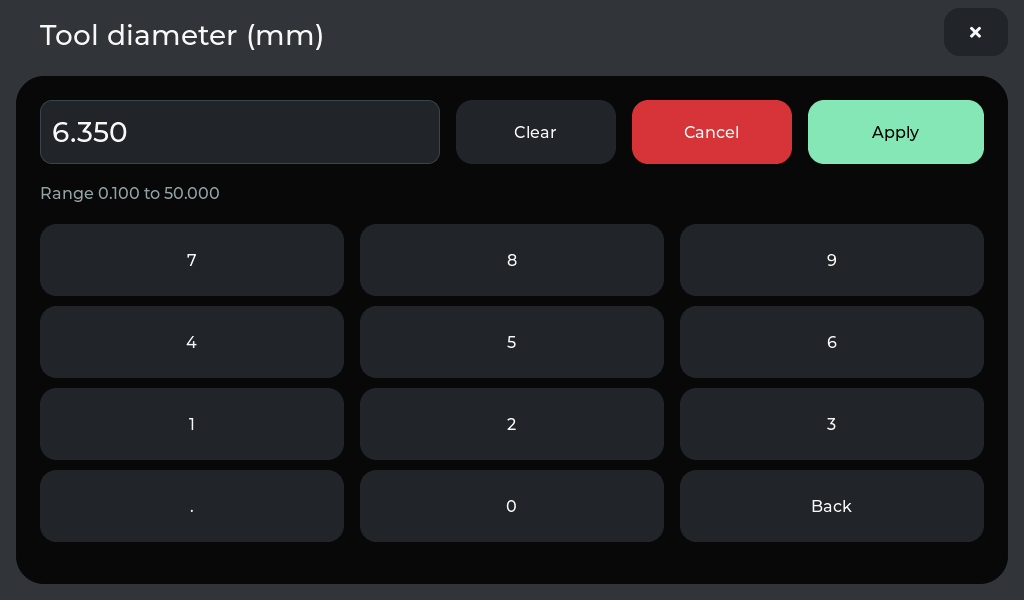
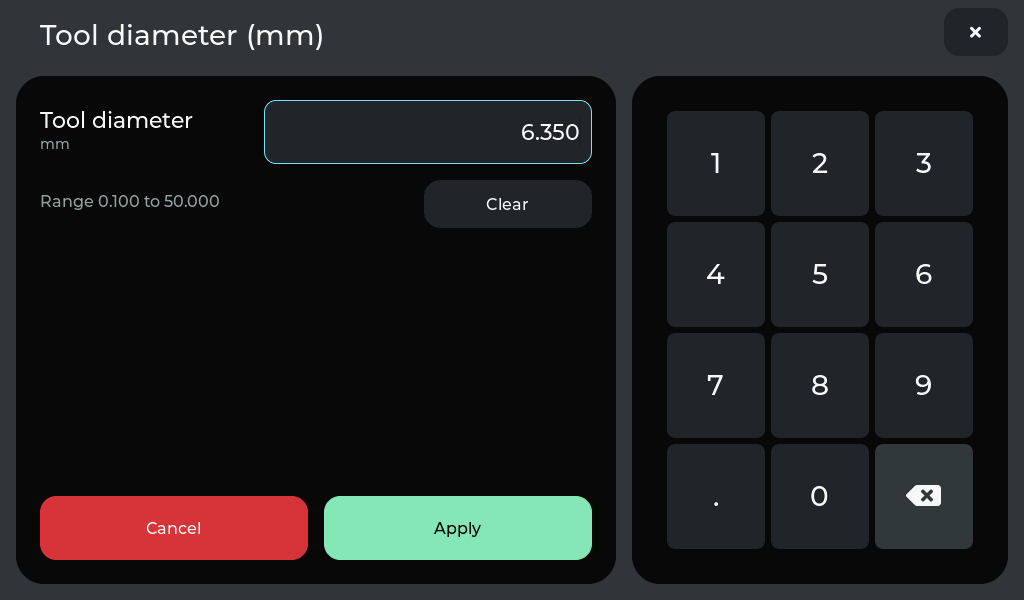
Unify numeric editors and fix controller UART pins

diff --git a/firmware/viewesmart-p4/main/panel_ui.cpp b/firmware/viewesmart-p4/main/panel_ui.cpp
@@ -238,6 +238,7 @@ static void load() {
             actuator_prefs = actuators;
         nvs_close(h);
     }
+    prefs.tx=ControllerTxPin; prefs.rx=ControllerRxPin;
 }
 static const lv_font_t *font(int size) {
     switch (size) {
@@ -579,36 +580,45 @@ static void edit(Edit e) {
     e.converted = !e.integer;
     editing = e;
     lv_obj_t *c = open_modal(e.title);
+    lv_obj_set_width(lv_obj_get_child(c,0),600);
+    auto keypad_card=box(c,632,76,376,508);
+    lv_obj_set_style_radius(keypad_card,28,0);
+    lv_obj_set_style_border_width(keypad_card,0,0);
     modal_close_button(c);
+    label(c,e.integer?"Baud rate":"Tool diameter",40,108,200,22,TEXT);
+    label(c,e.integer?"baud":(inches?"in":"mm"),40,136,200,14,MUTED);
     number = lv_textarea_create(c);
-    lv_obj_set_pos(number, 40, 100);
-    lv_obj_set_size(number, 400, 64);
-    lv_textarea_set_one_line(number, true);
-    lv_obj_set_height(number, 64);
-    lv_textarea_set_max_length(number, 10);
-    lv_textarea_set_accepted_chars(number, "0123456789.");
+    lv_obj_set_pos(number,264,100); lv_obj_set_size(number,328,64);
+    lv_textarea_set_one_line(number,true); lv_obj_set_height(number,64);
+    lv_textarea_set_max_length(number,10);
+    lv_textarea_set_accepted_chars(number,e.integer?"0123456789":"0123456789.");
     char value[24];
-    snprintf(value, sizeof value, e.integer ? "%.0f" : "%.3f",
-             *e.value / (e.converted ? display_scale(inches) : 1));
-    snprintf(edit_initial, sizeof edit_initial, "%s", value);
-    lv_textarea_set_text(number, value);
-    lv_obj_set_style_text_font(number, font(28), 0);
-    lv_obj_set_style_bg_color(number, lv_color_hex(BG), 0);
-    lv_obj_set_style_text_color(number, lv_color_hex(TEXT), 0);
-    const char *keys[] = {"7", "8", "9", "4", "5", "6", "1", "2", "3", ".", "0", "Back"};
-    for (int i = 0; i < 12; i++) {
-        lv_obj_t *b = button(c, keys[i], 40 + (i % 3) * 320, 224 + (i / 3) * 82, 304, 72, nullptr);
-        lv_obj_add_event_cb(b, key, LV_EVENT_CLICKED, (void *)keys[i]);
-    }
-    button(c, "Cancel", 632, 100, 160, 64, cancelled, 0, CARD, true);
-    lv_obj_t *clear = button(c, "Clear", 456, 100, 160, 64, nullptr);
-    lv_obj_add_event_cb(clear, key, LV_EVENT_CLICKED, (void *)"Clear");
-    button(c, "Apply", 808, 100, 176, 64, apply_number, 0, GREEN);
+    snprintf(value,sizeof value,e.integer?"%.0f":"%.3f",*e.value/(e.converted?display_scale(inches):1));
+    snprintf(edit_initial,sizeof edit_initial,"%s",value);
+    lv_textarea_set_text(number,value);
+    lv_obj_set_style_text_font(number,font(22),0);
+    lv_obj_set_style_text_align(number,LV_TEXT_ALIGN_RIGHT,0);
+    auto clear=button(c,"Clear",424,180,168,48,nullptr);
+    lv_obj_add_event_cb(clear,key,LV_EVENT_CLICKED,(void *)"Clear");
     char limits[80];
-    snprintf(limits, sizeof limits, "Range %.3f to %.3f", e.min / (e.converted ? display_scale(inches) : 1),
-             e.max / (e.converted ? display_scale(inches) : 1));
-    number_error = label(c, limits, 40, 184, 944, 16, MUTED);
+    snprintf(limits,sizeof limits,"Range %.3f to %.3f",e.min/(e.converted?display_scale(inches):1),e.max/(e.converted?display_scale(inches):1));
+    label(c,limits,40,192,368,16,MUTED);
+    number_error=label(c,"",40,244,552,20,RED);
+    button(c,"Cancel",40,496,268,64,cancelled,0,RED);
+    button(c,"Apply",324,496,268,64,apply_number,0,GREEN);
+    auto keyboard=lv_keyboard_create(c);
+    lv_obj_set_align(keyboard,LV_ALIGN_TOP_LEFT);
+    lv_obj_set_pos(keyboard,656,100); lv_obj_set_size(keyboard,328,460);
+    static const char *const decimal_keys[]={"1","2","3","\n","4","5","6","\n","7","8","9","\n",".","0",LV_SYMBOL_BACKSPACE,""};
+    static const char *const integer_keys[]={"1","2","3","\n","4","5","6","\n","7","8","9","\n","00","0",LV_SYMBOL_BACKSPACE,""};
+    static constexpr auto digit=(lv_buttonmatrix_ctrl_t)(1|LV_BUTTONMATRIX_CTRL_NO_REPEAT);
+    static const lv_buttonmatrix_ctrl_t controls[]={digit,digit,digit,digit,digit,digit,digit,digit,digit,digit,digit,(lv_buttonmatrix_ctrl_t)(1|LV_BUTTONMATRIX_CTRL_CHECKED)};
+    lv_keyboard_set_map(keyboard,LV_KEYBOARD_MODE_NUMBER,e.integer?integer_keys:decimal_keys,controls);
+    lv_keyboard_set_mode(keyboard,LV_KEYBOARD_MODE_NUMBER);
+    lv_keyboard_set_textarea(keyboard,number);
     finish_modal(c);
+    lv_obj_set_style_text_font(keyboard,font(28),LV_PART_ITEMS);
+    lv_obj_add_state(number,LV_STATE_FOCUSED);
 }
 static void edit_value(lv_event_t *e) {
     if (state.probing) {
@@ -630,12 +640,6 @@ static void edit_value(lv_event_t *e) {
         if (probe_offsets_keyboard) lv_obj_send_event(probe_offset_fields[index],LV_EVENT_FOCUSED,nullptr);
         break;
     }
-    case 8:
-        edit({&prefs.tx, 0, 54, "UART TX pin", true});
-        break;
-    case 9:
-        edit({&prefs.rx, 0, 54, "UART RX pin", true});
-        break;
     case 10:
         edit({&prefs.baud, 9600, 921600, "UART baud rate", true});
         break;
@@ -939,7 +943,7 @@ static void connect_click(lv_event_t *) {
     if (runtime_link_active() || state.online)
         runtime_disconnect();
     else
-        result(runtime_connect((int)prefs.tx, (int)prefs.rx, (int)prefs.baud, usb_connection));
+        result(runtime_connect((int)prefs.baud, usb_connection));
 }
 static void demo_click(lv_event_t *) { runtime_demo(!runtime_is_demo()); }
 static bool unlock() { return runtime_action(Action::Unlock); }
@@ -1419,11 +1423,9 @@ static void build_page() {
             usb_connection_status = label(row, status, 460, 25, 490, 18, MUTED);
             lv_obj_set_style_text_align(usb_connection_status, LV_TEXT_ALIGN_RIGHT, 0);
         } else {
-            setting_row(body, "TX pin", prefs.tx, controller_y + 120, 8);
-            setting_row(body, "RX pin", prefs.rx, controller_y + 208, 9);
-            setting_row(body, "Baud rate", prefs.baud, controller_y + 296, 10);
+            setting_row(body, "Baud rate", prefs.baud, controller_y + 120, 10);
         }
-        int buttons_y = controller_y + (usb_connection ? 216 : 392);
+        int buttons_y = controller_y + 216;
         controller_connect = button(body, runtime_link_active() || state.online ? "Disconnect" : "Connect controller", 0, buttons_y, 472, 64, connect_click);
         controller_demo = button(body, runtime_is_demo() ? "Exit preview" : "Preview / controller off", 498, buttons_y, 472, 64, demo_click);
     } else if (page == JobPage) {
@@ -1803,7 +1805,7 @@ extern "C" void panel_ui_create() {
     lv_obj_set_style_text_font(lv_obj_get_child(stop_btn, 0), font(22), 0);
     lv_obj_add_event_cb(state_label, recover, LV_EVENT_CLICKED, nullptr);
     build_page();
-    runtime_connect((int)prefs.tx, (int)prefs.rx, (int)prefs.baud, usb_connection);
+    runtime_connect((int)prefs.baud, usb_connection);
     lv_timer_create(refresh, 100, nullptr);
 }
 extern "C" void panel_ui_settings(char *buffer, size_t size) {

diff --git a/tools/check-fullscreen.py b/tools/check-fullscreen.py
@@ -95,7 +95,7 @@ try:
   tap(379,42);form('preview-update');shot('panel-preview-update');clear_form()
  page(0);tap(100,480);form('probe');shot('panel-probe-single-z')
  tap(740,128);form('probe');shot('panel-probe')
- tap(240,272);form('numeric');shot('panel-numpad');tap(712,132);form('probe');tap(270 if original['single_probe'] else 740,128);tap(976,32)
+ tap(240,272);form('numeric');shot('panel-numpad');tap(174,528);form('probe');tap(270 if original['single_probe'] else 740,128);tap(976,32)
  page(0);tap(254,482);form('tools');shot('panel-accessories')
  tap(718,32);form('spindles');time.sleep(2);shot('panel-spindles');tap(976,32)
  page(0);tap(64,96);form('confirmation');shot('panel-home-confirm');tap(264,520)
@@ -110,7 +110,7 @@ try:
   find(setting_id);shot('panel-machine-setting-'+name);tap(976,32);form('machine-settings')
  tap(266,120);form('machine-search');shot('panel-machine-setting-search');tap(976,32);form('machine-settings');tap(976,32)
  if not original.get('usb_connection',0):
-  page(2);scroll(800);setting(1026);form('numeric');shot('panel-settings-number');tap(712,132)
+  page(2);scroll(800);setting(1026);form('numeric');shot('panel-settings-number');tap(174,528)
  page(3)
  if original['macro_count']:
   tap(236,134);form('macro-editor');shot('panel-macro-editor');tap(976,32)

diff --git a/tools/check-workflow.py b/tools/check-workflow.py
@@ -47,14 +47,12 @@ with serial.Serial(port=None, baudrate=115200, timeout=1, write_timeout=5) as po
         assert data("PREFS")["page"] == expected
 
     def number(value):
-        tap(512, 459)  # Clear
-        keys = {"7": (380, 195), "8": (512, 195), "9": (644, 195),
-                "4": (380, 259), "5": (512, 259), "6": (644, 259),
-                "1": (380, 323), "2": (512, 323), "3": (644, 323),
-                ".": (380, 387), "0": (512, 387)}
+        tap(508, 204)  # Clear
+        keys = {str(i+1): (710+(i%3)*110,155+(i//3)*115) for i in range(9)}
+        keys.update({".": (710, 502), "0": (820, 502)})
         for digit in str(value):
             tap(*keys[digit])
-        tap(644, 459)  # Apply
+        tap(458, 528)  # Apply
 
     try:
         command("TOUCH OFF")

diff --git a/firmware/viewesmart-p4/main/panel_runtime.cpp b/firmware/viewesmart-p4/main/panel_runtime.cpp
@@ -377,8 +377,9 @@ void runtime_init() {
     BaseType_t ok = xTaskCreate(worker, "panel_link", 8192, nullptr, 5, nullptr);
     ESP_ERROR_CHECK(ok == pdPASS ? ESP_OK : ESP_ERR_NO_MEM);
 }
-bool runtime_connect(int tx, int rx, int baud, bool use_usb) {
-    if (!use_usb && (tx < 0 || tx > 54 || rx < 0 || rx > 54 || tx == rx || baud < 9600 || baud > 921600))
+bool runtime_connect(int baud, bool use_usb) {
+    constexpr int tx=ControllerTxPin, rx=ControllerRxPin;
+    if (!use_usb && (baud < 9600 || baud > 921600))
         return false;
     xSemaphoreTake(mutex, portMAX_DELAY);
     cancel_upload("SD upload cancelled by reconnect");

diff --git a/tools/check-probe-surfaces.py b/tools/check-probe-surfaces.py
@@ -51,7 +51,7 @@ with serial.Serial(port=None,baudrate=115200,timeout=1,write_timeout=5) as p:
   if data('PREFS')['diameter']>0:run(0)
   tap(916,82);tap(130,432);tap(720,154)
   assert not data('PREFS')['single_probe'];touch_release();shot('panel-probe')
-  tap(280,295);shot('panel-numpad');tap(380,459)
+  tap(280,295);shot('panel-numpad');tap(174,528)
   tap(280,154);surface(0)
   assert data('PREFS')['single_probe'] and data('PREFS')['probe_surface']==0
   print('PASS Z default, auto-armed touch/release, disabled start, all five surfaces, Z/X probe completion, Corner and numeric editor',flush=True)

diff --git a/tools/check-settings-rows.py b/tools/check-settings-rows.py
@@ -60,7 +60,7 @@ try:
  for key in keys:assert data()[key]==original[key]
  if not original.get('usb_connection',0):
   scroll_to(800);tap(850,y(1026));assert data()['dialog']=='number-keypad'
-  tap(712,132);assert data()['dialog']=='none'
+  tap(174,528);assert data()['dialog']=='none'
  shot('settings-popup-closed')
  for key in ('x','y','z','diameter','feed','inset','tx','rx','baud','inches','step','actuator_mode','a_rotary','macro_count','brightness','usb_connection'):
   assert data()[key]==original[key],key

diff --git a/firmware/viewesmart-p4/main/panel_runtime.h b/firmware/viewesmart-p4/main/panel_runtime.h
@@ -28,7 +28,8 @@ enum class Action {
     JobAcknowledged
 };
 void runtime_init();
-bool runtime_connect(int tx = 37, int rx = 38, int baud = 115200, bool usb = false);
+constexpr int ControllerTxPin=37, ControllerRxPin=38;
+bool runtime_connect(int baud = 115200, bool usb = false);
 bool runtime_link_active();
 void runtime_disconnect();
 void runtime_snapshot(State &state);

diff --git a/tools/check-usb.py b/tools/check-usb.py
@@ -59,7 +59,7 @@ def settings_bottom():
  page(2);scroll(1300)
 
 def connect_button():
- d=data();y=94+868+(216 if d['usb_connection'] else 392)+32-d['scroll_y']
+ d=data();y=94+868+216+32-d['scroll_y']
  assert 110<y<510,(y,d)
  tap(264,round(y))
 

diff --git a/README.md b/README.md
@@ -128,7 +128,7 @@ for reconnection. The header shows the connected SSID and IP address.
 
 - VIEWESMART 7-inch 1024Ã—600 ESP32-P4 display with ESP32-C6 Wi-Fi coprocessor.
 - Native LVGL interface, built with ESP-IDF 5.3.4 and LVGL 9.2.2.
-- Controller UART defaults: TX GPIO37, RX GPIO38, 115200 baud; configurable in Settings.
+- Controller UART: fixed TX GPIO37 / RX GPIO38; baud rate is configurable in Settings (115200 initially).
 - USB3 CDC ACM host connection: tested with an RP2350 grblHAL controller (2E8A:000A). USB UART remains available for programming and development tools.
 - Startup alarms open an Unlock confirmation; unlocking does not establish a homed position.
 - The selected controller connection starts on boot and reconnects after USB re-enumeration. Interrupted jobs do not resume automatically.
@@ -240,6 +240,7 @@ Click a screenshot to open it at full size.
 | **Probe configuration**<br><br>Edit plate dimensions, probe feed and corner inset beside a large numeric keypad. Probe-page shortcuts open the same editor with the relevant field selected. | [<img src="docs/screenshots/panel-settings-probe.png" alt="Combined probe geometry and feed editor" width="640">](docs/screenshots/panel-settings-probe.png) |
 | **Probe feed and corner start inset**<br><br>Adjust the probing feed and the initial corner inset to suit the plate and setup. | [<img src="docs/screenshots/panel-settings-probe-lower.png" alt="Settings service and probe configuration rows" width="640">](docs/screenshots/panel-settings-probe-lower.png) |
 | **USB controller connection**<br><br>Connect a CDC ACM grblHAL controller to USB3. UART remains selectable for wired serial connections. | [<img src="docs/screenshots/panel-settings-usb.png" alt="USB3 controller connected" width="640">](docs/screenshots/panel-settings-usb.png) |
+| **UART controller connection**<br><br>TX37 and RX38 are fixed for the hardware. Set the controller baud rate here. | [<img src="docs/screenshots/panel-settings-uart.png" alt="UART connection and baud setting" width="640">](docs/screenshots/panel-settings-uart.png) |
 | **Inch display setting**<br><br>Switch the LCD measurement system to inches. Internal geometry and generated motion remain in millimetres. | [<img src="docs/screenshots/panel-settings-inch.png" alt="Inch units selected in settings" width="640">](docs/screenshots/panel-settings-inch.png) |
 
 ### grblHAL machine settings

diff --git a/AGENTS.md b/AGENTS.md
@@ -519,3 +519,5 @@ CNC Jog caches control appearance by availability/mode flags. Idle/Jog updates c
 Machine Settings uses the standard full-screen page with a 24 px content inset: toolbar at (40,100), lists at y=164 and footer at y=512. Reserve a scrollbar gutter beside setting values; keep these explicit browser coordinates instead of relying on legacy modal-size insetting.
 
 Probe Configuration keeps five labelled 64 px fields on the left and a large numeric keypad on the right. Save/Cancel sit below the settings; use the common header/close control. Probe feed, thickness and inset entry points open this same editor and focus the relevant field. Preserve validation, metric/inch conversion, precise unchanged values and return-to-Probe behaviour.
+
+Controller TTL UART pins are fixed TX37/RX38 in panel_runtime.h; only baud rate is editable. Retain legacy preference fields for NVS compatibility and ignore saved pin overrides. Tool Diameter and UART baud use the two-card numeric layout with Cancel/Apply below the input and a right-hand keypad.

diff --git a/docs/hardware-and-protocol.md b/docs/hardware-and-protocol.md
@@ -17,7 +17,7 @@ before wiring and testing.
 
 ## Full grblHAL serial on IO37 / IO38
 
-The user's proposed alternative is TX37 / RX38 to the controller's UART header.
+The TTL UART transport uses fixed TX37 / RX38 to the controller's UART header. Only baud rate is editable; legacy saved pin values are ignored without changing the preferences layout.
 This should use the full grblHAL sender protocol: commands, responses, status,
 settings, alarms, realtime controls and flow control as required by the panel.
 
